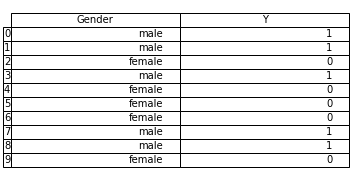
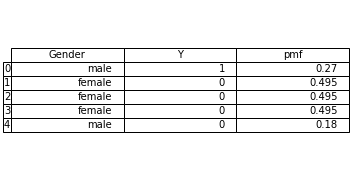
Remove seed argument from sampling of Bayesian network to close #13
The implementation of setting seeds for sampling from a Bayesian network led to wrong sampling behavior, as could be seen by calculating the population ratios of the samples. I decided to just remove any seed setting, as it was not a killer feature.

Changed region(s): [[0.0, 0.0556, 0.9778, 0.9444]]

diff --git a/fake_data_for_learning/fake_data_for_learning.py b/fake_data_for_learning/fake_data_for_learning.py
@@ -342,25 +342,17 @@ class FakeDataBayesianNetwork:
         res = name in l
         return res
 
-    def rvs(self, size=1, seed=None):
+    def rvs(self, size=1):
         r'''Ancestral sampling from the Bayesian network'''
-        sample_seeds = FakeDataBayesianNetwork.get_sample_seeds(size, seed)
-        res = [self.get_ancestral_sample(seed=sample_seeds[i]) for i in range(size)]
+        res = [self.get_ancestral_sample() for _ in range(size)]
         return pd.DataFrame.from_records(res, index=range(size), columns=self.node_names)
 
-    @staticmethod
-    def get_sample_seeds(size, seed):
-        np.random.seed(seed=seed)
-        # Enlarge support of seed values by scaling size by 100, perhaps unnecessary
-        res = np.random.randint(100*size, size=size)
-        return res
-
-    def get_ancestral_sample(self, seed=None):
+    def get_ancestral_sample(self):
         r'''Ancestral sampling from the Bayesian network'''
         res = {}
         topologically_ordered_node_names = self.get_topological_ordering()
 
-        res = self.get_ordered_samples(topologically_ordered_node_names, seed)
+        res = self.get_ordered_samples(topologically_ordered_node_names)
         # Keep only SampleValue value
         res = {k: v.value for (k,v) in res.items()}
         return res
@@ -368,7 +360,7 @@ class FakeDataBayesianNetwork:
     def get_topological_ordering(self):
         return topological_sort(self.get_graph())
 
-    def get_ordered_samples(self, ordered_node_names, seed):
+    def get_ordered_samples(self, ordered_node_names):
         res = {}
         for node_name in ordered_node_names:
             node = self.get_node(node_name)
@@ -376,7 +368,6 @@ class FakeDataBayesianNetwork:
                 node.rvs(
                     size=1,
                     parent_values=res,
-                    seed=seed
                 )[0],
                 label_encoder=node.label_encoder
             )

diff --git a/tests/test_fake_data_bn.py b/tests/test_fake_data_bn.py
@@ -343,3 +343,50 @@ def test_pmf_non_default_values():
         pytest.approx(level.cpt[0] * outcome.cpt[0,0])
     assert pytest.approx(bn.pmf(pd.Series(['low', 'meltdown']))) == \
         pytest.approx(level.cpt[1] * outcome.cpt[1,2])
+
+
+def test_rvs_counts_vs_pmf():
+    # X0, X1 independent
+    X0 = BayesianNodeRV('X0', np.array([0.5, 0.5]))
+    X1 = BayesianNodeRV('X1', np.array([0.5, 0.5]))
+
+    bn = FakeDataBayesianNetwork(X0, X1)
+    samples = bn.rvs(size=10000)
+    sample_ratios = samples.groupby(['X0', 'X1']).size() / samples.shape[0]
+
+    expected_index = pd.MultiIndex.from_tuples(
+        [(0,0), (0,1), (1,0), (1,1)],
+        names=['X0', 'X1'])
+    expected_ratios = pd.Series(
+        [0.25, 0.25, 0.25, 0.25],
+        index=expected_index
+    )
+    pd.testing.assert_series_equal(
+        sample_ratios, expected_ratios,
+        check_exact=False, check_less_precise=1
+    )
+
+    # X0 -> X1 binary
+    pt_X0 = np.array([0.5, 0.5])
+    X0 = BayesianNodeRV('X0', pt_X0)
+    pt_X1cX0 = np.array([
+            [0.25, 0.75],
+            [0.75, 0.25],
+    ])
+    X1 = BayesianNodeRV('X1', pt_X1cX0, parent_names=['X0'])
+
+    bn = FakeDataBayesianNetwork(X0, X1)
+    samples = bn.rvs(size=10000)
+    sample_ratios = samples.groupby(['X0', 'X1']).size() / samples.shape[0]
+
+    expected_index = pd.MultiIndex.from_tuples(
+        [(0,0), (0,1), (1,0), (1,1)],
+        names=['X0', 'X1'])
+    expected_ratios = pd.Series(
+        [0.125, 0.375, 0.375, 0.125],
+        index=expected_index
+    )
+    pd.testing.assert_series_equal(
+        sample_ratios, expected_ratios,
+        check_exact=False, check_less_precise=1
+    )

diff --git a/README.md b/README.md
@@ -49,12 +49,13 @@ Y.rvs({'Gender': SampleValue('male', label_encoder=Gender.label_encoder)}, seed=
 # array([0])
 ```
 
-Combine into a Bayesian network
+Combine into a Bayesian network. Sample and calculate the probability mass function of each sample.
 
 ```python
 from fake_data_for_learning import FakeDataBayesianNetwork
-bn = FakeDataBayesianNetwork(Gender, Y)
-bn.rvs(size=5, seed=42)
+samples = bn.rvs(size=5)
+# Rounding of pmf is only for display purposes
+samples['pmf'] = samples[['Gender', 'Y']].apply(lambda sample: round(bn.pmf(sample), 3), axis=1)
 ```
 
 ![docs/graphics/network_sample.png](docs/graphics/network_sample.png)
